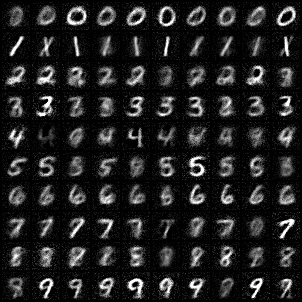
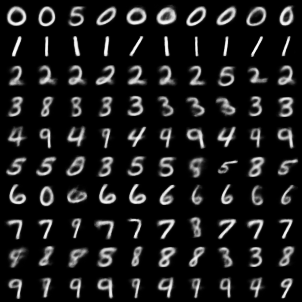
edits

diff --git a/train_vae_celeba.py b/train_vae_celeba.py
@@ -71,7 +71,7 @@ def gaussian_mixture(means, stds, p, args):
 def optimizer(net, vae, args):
     assert args.optimizer.lower() in ["sgd", "adam"], "Invalid Optimizer"
 
-    params = net.parameters()#list(vae.parameters()) + list(net.parameters())
+    params = list(net.parameters()) # + list(vae.parameters())
     if args.optimizer.lower() == "sgd":
 	       return optim.SGD(params, lr=args.lr, momentum=args.beta1, nesterov=args.nesterov)
     elif args.optimizer.lower() == "adam":
@@ -82,14 +82,10 @@ def unif(size, eps=1E-7):
 
 def test(net, args, name, loader, vae, label=None):
     net.eval()
-    vae.eval()
+    #vae.eval()
     gauss = torch.distributions.normal.Normal(torch.tensor([0.]).cuda(), torch.tensor([1.]).cuda())
     U_ = unif(size=(100, args.dims))
     U = gauss.icdf(U_)
-    #U.requires_grad = True
-    #a = torch.arange(0, 10, device=device)
-    #X = a*torch.ones((10, 10), device=device).long()
-    #X = X.permute(1, 0).flatten()
     Y_hat = net.grad_multi(U, label)
     print("max and min points generated: " + str(Y_hat.max()) + " " + str(Y_hat.min()))
     print(Y_hat.mean(), Y_hat.std())
@@ -114,35 +110,30 @@ def train(net, optimizer, loader, vae, args):
             #break
             Y = Y.cuda()
             label = label.float().cuda()
-            label = net.bn1(label)
+            label = net.f(label)
             u = unif(size=(args.batch_size, args.dims))
             u = gauss.icdf(u)
             optimizer.zero_grad()
             alpha, beta = net(u)
-            #X = net.to_onehot(label)
-            #print(Y.shape, label.shape, label.min(), label.max())
-            #print(beta.shape)
-            #print(label)
             Y_recon, mu, logvar = vae(Y)
             #loss = loss_function(Y_recon, Y, mu, logvar) #+ dual(U=u, Y_hat=Y_hat, Y=z, eps=args.eps)
             #l1 = loss.item()
             q_loss = dual(U=u, Y_hat=(alpha, beta), Y=mu.detach(), X=label, eps=args.eps)
             #q_loss = dual_unconditioned(U=u, Y_hat=alpha, Y=mu.detach(), eps=args.eps)
-            loss = q_loss # +=
+            loss = q_loss
             #l2 = loss.item()
             #dual_loss += l2 - l1
 
             loss.backward()
             optimizer.step()
-            #for p in positive_params:
-            #	p.data.copy_(torch.relu(p.data))
             running_loss += loss.item()
         #break
 
         print('Epoch %d : %.5f %.5f' %
             (epoch, running_loss/len(loader.dataset), dual_loss/len(loader.dataset)))
 
-    #test(net, args, name='imgs/trained.png', loader=loader, vae=vae, label=l)
+        test(net, args, name='imgs/trained.png', loader=loader, vae=vae, label=l)
+        net.train()
 
 if __name__ == "__main__":
     parser = argparse.ArgumentParser()
@@ -186,21 +177,10 @@ if __name__ == "__main__":
                                     b_layers=1)
 
     net.apply(net.weights_init_uniform_rule)
-    '''
-    net = ICNN_LastInp_Quadratic(input_dim=args.dims,
-                                 hidden_dim=512,#1024,#512
-                                 activation='celu',
-                                 num_layer=3)
-    '''
     vae = VAE(in_channels=3,
               latent_dim=args.dims,
               hidden_dims=[32, 64, 128, 256, 512]
               )
-
-    #for p in list(net.parameters()):
-    #    if hasattr(p, 'be_positive'):
-    #        positive_params.append(p)
-    #    p.data = torch.from_numpy(truncated_normal(p.shape, threshold=1./np.sqrt(p.shape[1] if len(p.shape)>1 else p.shape[0]))).float()
 
     if len(args.weights) > 0:
         #load(net, args.weights + '/net.pth')
@@ -221,8 +201,6 @@ if __name__ == "__main__":
     if args.save_model:
         save(net, args.folder, 'net')
         save(vae, args.folder, 'vae')
-    #mnist
-    #train(net, optimizer, loader, ds.y[:args.n].float().cuda(), args)
 
     if args.genTheor:
         Y = torch.from_numpy(ds.y)

diff --git a/models.py b/models.py
@@ -256,33 +256,33 @@ class ConditionalConvexQuantile(nn.Module):
 
             beta.append(nn.Sequential(nn.Linear(self.b_hid, self.xdim)))
             self.beta = nn.Sequential(*beta)
-
+            ''' 
+            # BiRNN
             self.f = BiRNN(input_size=args.dims,
                            hidden_size=args.dims*4,
                            num_layers=2,
                            xdim=self.xdim)
-
+            '''
+            # MLP
+            self.f = nn.Sequential(nn.Linear(40, 128),
+                                   nn.BatchNorm1d(128),
+                                   nn.ReLU(inplace=True),
+                                   nn.Linear(128, 128),
+                                   nn.BatchNorm1d(128),
+                                   nn.ReLU(inplace=True),
+                                   nn.Linear(128, self.xdim),
+                                   nn.BatchNorm1d(self.xdim, affine=False))
+            '''
+            self.f = nn.BatchNorm1d(self.xdim, affine=False)
+            '''
 
         #self.bn1 = nn.BatchNorm1d(self.xdim, momentum=1.0, affine=False)
         
-        '''
-        # MLP
-        self.f = nn.Sequential(nn.BatchNorm1d(self.xdim),
-                               nn.Linear(self.xdim, 64),
-                               nn.BatchNorm1d(64),
-                               nn.ReLU(inplace=True),
-                               nn.Linear(64, 64),
-                               nn.BatchNorm1d(64),
-                               nn.ReLU(inplace=True),
-                               nn.Linear(64, self.xdim),
-                               nn.BatchNorm1d(self.xdim, momentum=1.0, affine=False))
-        '''
 
     def forward(self, z, x=None):
         # we want onehot for categorical and non-ordinal x.
-        #x = self.to_onehot(x)
-        #x_ = self.fc_x(x)
         if self.xdim == 0:
+            print(True)
             return self.alpha(z)
         alpha = self.alpha(z)
         beta = self.beta(z) #torch.bmm(self.beta(z).unsqueeze(1), self.fc_x(x).unsqueeze(-1))
@@ -294,6 +294,7 @@ class ConditionalConvexQuantile(nn.Module):
             x = self.to_onehot(x)
         elif x != None:
             x = self.f(x)#self.bn1(x)
+            print(x)
             #print(x.shape)
         u.requires_grad = True 
         phi = self.alpha(u).sum()
@@ -306,15 +307,13 @@ class ConditionalConvexQuantile(nn.Module):
         if x == None:
             x = generate_x()
         x_s = x.shape[-1]
-        print(u.shape)
-        print(x.shape, x)
         for i in range(40):
             if x[i] == 1:
                 print(attributes[i], end=',')
-        print()
         x = x.expand(1, x_s)
         x = x.repeat(u.shape[0], 1).float().cuda()
-        x = self.bn1(x)
+        x = self.f(x)
+        print(x.min(), x.max())
         u.requires_grad = True
         phi = self.alpha(u).sum() + (torch.bmm(self.beta(u).unsqueeze(1), x.unsqueeze(-1)).squeeze(-1)).sum()
         d_phi = torch.autograd.grad(phi, u, create_graph=True)[0]

diff --git a/train_vae_mnist.py b/train_vae_mnist.py
@@ -124,7 +124,7 @@ def train(net, optimizer, loader, vae, args):
             #else:
             q_loss = dual(U=u, Y_hat=(alpha, beta), Y=mu.detach(), X=X, eps=args.eps)
             #if q_loss.item() > 0:
-            loss += q_loss#dual(U=u, Y_hat=(alpha, beta), Y=z.detach(), X=X, eps=args.eps)
+            loss += q_loss
             l2 = loss.item()
             dual_loss += l2 - l1
 
